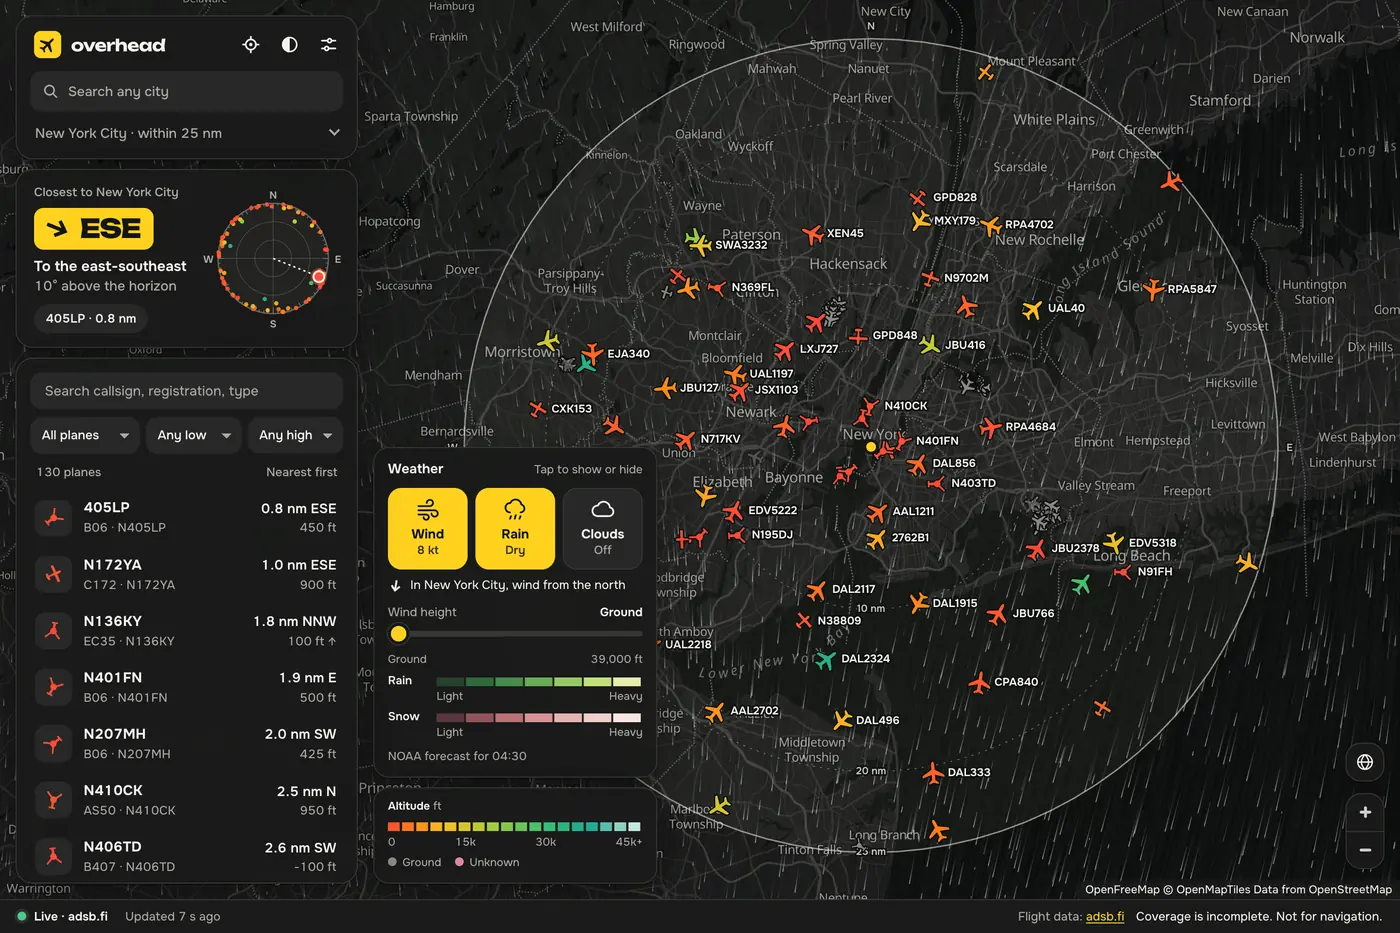
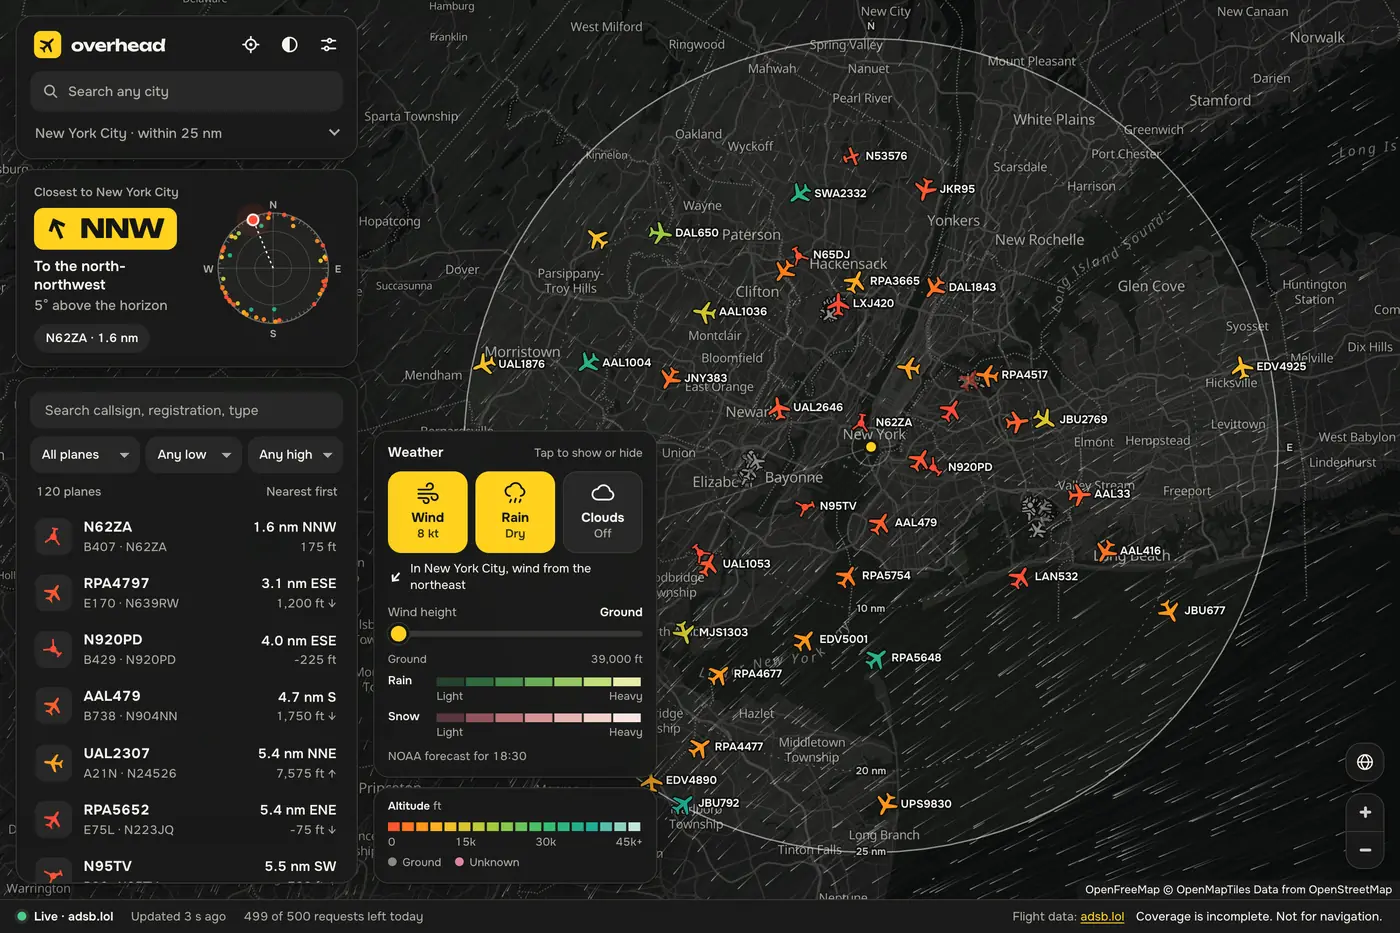
Show Overhead as a public project
Replace the sign-in note with a refresh note, retake the New York City
screenshot from the public site and credit adsb.lol as its data source.

diff --git a/src/sections/Projects/caseStudies.js b/src/sections/Projects/caseStudies.js
@@ -39,16 +39,16 @@ export const CASE_STUDIES = {
       "What plane is that? Overhead shows real aircraft around you or any city, points to the closest one with a compass direction and angle above the horizon, and draws live wind, rain, snow and cloud forecasts on the same map.",
     built: [
       "Live MapLibre map with planes coloured by altitude, a nearest-first list, search and filters, a closest-plane compass and nearby alerts.",
-      "Dependency-free Node server with a shared cache that polls only while a tab is visible, respects each source's limits and falls back automatically when one fails.",
+      "Dependency-free Node server with a shared cache that polls only while a tab is visible, respects each source's limits and backs off when one fails.",
       "Hand-written GRIB2 decoder that reads NOAA GFS forecast files, with every length checked before use.",
       "Animated wind lines on a custom canvas layer, from ground level up to 39,000 ft.",
       "Privacy by design: location rounded to about 1 km before it leaves the page, city search in the browser and a strict content security policy.",
-      "88 automated tests for parsing, maths, request limits and the server, none of which call a live API.",
+      "89 automated tests for parsing, maths, request limits and the server, none of which call a live API.",
     ],
-    flow: ["adsb.fi & NOAA GFS", "Node server: cache, limits, fallback", "Parsing & GRIB2 decoding", "MapLibre + canvas layers", "Live map, compass & alerts"],
+    flow: ["adsb.lol & NOAA GFS", "Node server: cache & limits", "Parsing & GRIB2 decoding", "MapLibre + canvas layers", "Live map, compass & alerts"],
     stack: ["JavaScript (ES modules)", "Node.js", "MapLibre GL", "Canvas", "NOAA GFS / GRIB2", "Vercel Functions"],
     credits: [
-      { label: "adsb.fi", url: "https://adsb.fi" },
+      { label: "adsb.lol (ODbL)", url: "https://www.adsb.lol/docs/open-data/api/" },
       { label: "NOAA GFS", url: "https://registry.opendata.aws/noaa-gfs-bdp-pds/" },
       { label: "OpenFreeMap", url: "https://openfreemap.org/" },
       { label: "OpenMapTiles", url: "https://www.openmaptiles.org/" },

diff --git a/src/sections/Projects/ProjectPreview.jsx b/src/sections/Projects/ProjectPreview.jsx
@@ -1,6 +1,6 @@
 import { useEffect, useRef } from "react";
 import { AnimatePresence, motion, useMotionValue, useSpring, useTransform } from "motion/react";
-import { IconArrowDown, IconArrowLeft, IconArrowRight, IconArrowUpRight, IconBrandGithub, IconLock, IconX } from "@tabler/icons-react";
+import { IconArrowDown, IconArrowLeft, IconArrowRight, IconArrowUpRight, IconBrandGithub, IconInfoCircle, IconX } from "@tabler/icons-react";
 import { Magnetic } from "../../common/Interactive";
 import Holo from "../../common/Holo";
 import { unlock } from "../../common/achievements";
@@ -181,7 +181,7 @@ function Overlay({ items, index, onClose, onNavigate }) {
                     rel="noopener noreferrer"
                     className="group inline-flex items-center gap-3 rounded-full bg-white px-7 py-4 text-sm font-semibold text-[#050506] transition-colors duration-300 hover:bg-(--warm)"
                   >
-                    {item.isPrivate ? "Open private demo" : "Visit live site"}
+                    Visit live site
                     <IconArrowUpRight
                       size={18}
                       stroke={2}
@@ -202,10 +202,10 @@ function Overlay({ items, index, onClose, onNavigate }) {
                   </a>
                 ))}
               </motion.div>
-              {item.isPrivate && (
+              {item.note && (
                 <motion.p variants={fade} className="mt-4 inline-flex items-center gap-2 text-sm text-white/60">
-                  <IconLock size={15} stroke={1.75} aria-hidden="true" />
-                  Sign-in required: access is limited to keep to the flight data terms.
+                  <IconInfoCircle size={15} stroke={1.75} aria-hidden="true" />
+                  {item.note}
                 </motion.p>
               )}
               {hasDetail && (

diff --git a/src/common/profile.js b/src/common/profile.js
@@ -33,7 +33,7 @@ export const EXPERIENCE = [
 export const PROJECTS = [
   { slug: "geomind", title: "GeoMind AI", about: "Geospatial AI platform · LLM · Maps", url: "https://geo-mind-by-prabh.vercel.app/" },
   { slug: "syncora", title: "Syncora", about: "GenAI meeting assistant · RAG · Gemini", url: "https://syncora-by-prabh.vercel.app/" },
-  { slug: "overhead", title: "Overhead", about: "Live aircraft map · sign-in required", url: "https://overhead-by-prabh.vercel.app/" },
+  { slug: "overhead", title: "Overhead", about: "Live aircraft map · wind & weather", url: "https://overhead-by-prabh.vercel.app/" },
   { slug: "real-estate", title: "Real Estate", about: "Property discovery and search", url: "https://singh-estate.vercel.app/" },
   { slug: "netflix", title: "Netflix Clone", about: "Streaming platform UI", url: "https://netflix-by-prabh.vercel.app/" },
   { slug: "cryptoverse", title: "Cryptoverse", about: "Cryptocurrency tracker", url: "https://cryptoverse7.vercel.app/" },

diff --git a/src/sections/Projects/Projects.jsx b/src/sections/Projects/Projects.jsx
@@ -40,8 +40,7 @@ const items = [
     title: "Overhead",
     subtitle: "Live aircraft map • Wind & weather",
     link: "https://overhead-by-prabh.vercel.app/",
-    // Deployed behind Vercel Authentication (its data sources' terms).
-    isPrivate: true,
+    note: "Planes refresh every 3 minutes, so the map can be empty for a minute or two.",
     accent: "#ffcc1f",
   },
   {
@@ -290,7 +289,7 @@ function Projects() {
                       href={item.link}
                       target="_blank"
                       rel="noopener noreferrer"
-                      aria-label={`Visit ${item.title} live site${item.isPrivate ? " (sign-in required)" : ""}`}
+                      aria-label={`Visit ${item.title} live site`}
                       className={styles.visitBadge}
                       onClick={(e) => e.stopPropagation()}
                       onKeyDown={(e) => e.stopPropagation()}
